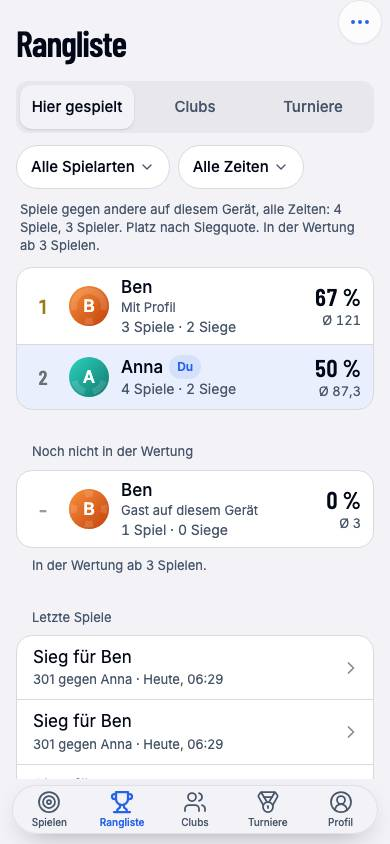
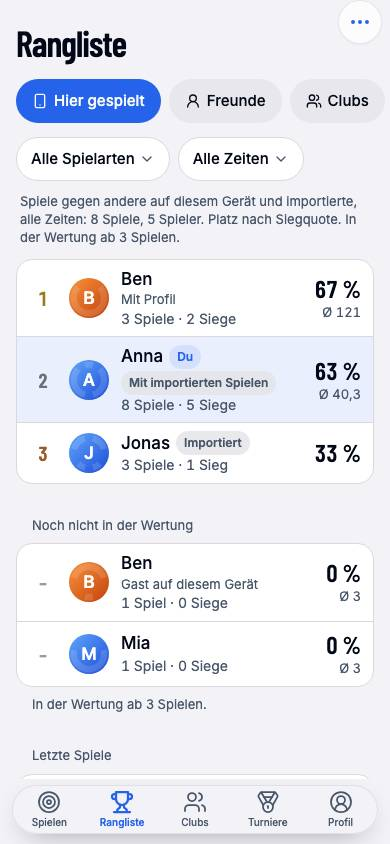
Freunde: Zahl auf dem Profil-Tab, Rangliste-Bereiche als Pills, Liste auf allen Geräten geprüft
Offene Anfragen stehen als rote Zahl auf dem Symbol des Profil-Tabs (Slot „tab.badges“,
CountBadge; die Worte sind die Beschreibung des Tabs, sein Name bleibt). Die vier Bereiche
der Rangliste sind eine seitlich scrollende Reihe von Pills mit Symbol (ScopeBar) statt eines
Segmented Control, in dem auf einem Telefon ein Wort brach; das Segmented Control ist wieder
wie auf main. Der Spielabend prüft die Zahl auf Bens Tab und die Liste auf Annas gekoppeltem
zweitem und ihrem wiederhergestelltem dritten Gerät.

diff --git a/docs/ux/freunde-vorschlag.html b/docs/ux/freunde-vorschlag.html
@@ -343,7 +343,7 @@ footer{margin-top:60px;padding-top:18px;border-top:1px solid var(--line);font-si
 
 <h2 id="orte">Die Orte in der App</h2>
 <h3>Profil › Freunde</h3>
-<p>Die Zeile „Freunde“ steht im Profil über dem Konto, mit der Zahl rechts und offenen Anfragen als Untertitel („1 Anfrage“). Dahinter die Liste: <b>Anfragen</b> (mit „Annehmen“ in der Zeile und dem Satz, den die Person mitschickte), <b>Freunde</b> („Freunde seit 26. Okt. 2026“), <b>Gesendet</b>. Jede Zeile öffnet die Spielerseite, wo entfernt, zurückgezogen oder abgelehnt wird. Der Plus-Knopf in der Leiste öffnet „Freund hinzufügen“.</p>
+<p>Die Zeile „Freunde“ steht im Profil über dem Konto, mit der Zahl rechts und offenen Anfragen als Untertitel („1 Anfrage“). Dahinter die Liste: <b>Anfragen</b> (mit „Annehmen“ in der Zeile und dem Satz, den die Person mitschickte), <b>Freunde</b> („Freunde seit 26. Okt. 2026“), <b>Gesendet</b>. Jede Zeile öffnet die Spielerseite, wo entfernt, zurückgezogen oder abgelehnt wird. Der Plus-Knopf in der Leiste öffnet „Freund hinzufügen“. Offene Anfragen stehen außerdem als rote Zahl auf dem Symbol des Profil-Tabs (HIG-Badge), damit sie von jedem Tab aus zu sehen sind, und verschwinden mit der Antwort. Die Liste ist ein Datensatz des Profils: ein gekoppeltes zweites Gerät und ein aus der Sicherung wiederhergestelltes zeigen dieselben Freunde und Anfragen, ohne dass dort etwas getan wird.</p>
 <div class="shots">
   <figure><img src="../implementation/evidence/P8/screens/41-friends-list.jpg" alt="Profil › Freunde mit Ben unter Freunde" loading="lazy"><figcaption>Profil › Freunde: Anfragen oben, dann Freunde, dann Gesendet.</figcaption></figure>
   <figure><img src="../implementation/evidence/P8/screens/40-friends-add.jpg" alt="Blatt Freund hinzufügen mit Zuletzt gespielt mit" loading="lazy"><figcaption>„Freund hinzufügen“: scannen, eigenen Code zeigen, oder einer aus „Zuletzt gespielt mit“.</figcaption></figure>
@@ -357,7 +357,7 @@ footer{margin-top:60px;padding-top:18px;border-top:1px solid var(--line);font-si
 <h3>Clubs und Turniere</h3>
 <p>„Person einladen“ (Club) bekommt die Gruppe <b>Freunde</b> über „Zuletzt gespielt mit“; ein Tipp schickt die Einladung an das Profil, wie bisher. Bei den Turniergästen stehen die Namen der Freunde zuerst unter den Vorschlägen. Mehr braucht es nicht: die Einladung selbst bleibt dieselbe.</p>
 <h3>Rangliste › Freunde</h3>
-<p>Die Rangliste bekommt einen vierten Bereich: <b>Hier gespielt · Freunde · Clubs · Turniere</b>. „Freunde“ zeigt dich und deine Freunde nach Siegquote (X01 gegen andere), mit Ø und Spielen, aus der Statistikkarte, die jeder unter „Sichtbarkeit“ freigibt. Ab der üblichen Mindestzahl von Spielen in der Wertung, darunter mit „Nicht in der Wertung“. Wer nichts freigibt, steht darunter mit „Zeigt keine Zahlen“; du selbst mit „Sichtbarkeit öffnen“. Der Satz darüber sagt genau das. Nichts, was nicht ohnehin auf der Spielerseite stünde, wird hier gezeigt.</p>
+<p>Die Rangliste bekommt einen vierten Bereich: <b>Hier gespielt · Freunde · Clubs · Turniere</b>. Vier Wörter passen auf einem Telefon in kein Segmented Control, ohne dass eines bricht; die Bereiche sind darum eine Reihe von Pills mit Symbol, der gewählte gefüllt, die bei Bedarf seitlich scrollt und bis an den Rand reicht (die Filter-Pills von App Store, Fitness und Karten). „Freunde“ zeigt dich und deine Freunde nach Siegquote (X01 gegen andere), mit Ø und Spielen, aus der Statistikkarte, die jeder unter „Sichtbarkeit“ freigibt. Ab der üblichen Mindestzahl von Spielen in der Wertung, darunter mit „Nicht in der Wertung“. Wer nichts freigibt, steht darunter mit „Zeigt keine Zahlen“; du selbst mit „Sichtbarkeit öffnen“. Der Satz darüber sagt genau das. Nichts, was nicht ohnehin auf der Spielerseite stünde, wird hier gezeigt.</p>
 <div class="shots">
   <figure><img src="../implementation/evidence/P8/screens/43-ranks-friends.jpg" alt="Rangliste › Freunde" loading="lazy"><figcaption>Rangliste › Freunde: geteilte Zahlen, nebeneinander.</figcaption></figure>
   <figure><img src="../implementation/evidence/P8/screens/44-setup-friend-chip.jpg" alt="Spielvorbereitung mit dem Chip Ben" loading="lazy"><figcaption>Spielen: Freunde als Chips über den Sitzen.</figcaption></figure>

diff --git a/components/app-shell.tsx b/components/app-shell.tsx
@@ -4,6 +4,7 @@ import type { ReactNode } from "react"
 import { CircleUserRound, Medal, Target, Trophy, Users } from "lucide-react"
 import { FitText } from "@/components/fit-text"
 import { useRegistryVersion } from "@/components/nav/use-registry"
+import { SlotItems } from "@/components/shell/slot-items"
 import { useT } from "@/components/i18n-provider"
 import type { Messages } from "@/lib/i18n"
 import type { TabId } from "@/lib/shell/nav"
@@ -22,12 +23,19 @@ const TABS: { id: Tab; label: (t: Messages) => string; icon: typeof Target }[] =
 ]
 
 // The tab's symbol. The profile area can show the player's own picture there (slot
-// "profile.tabIcon"), falling back to the standard symbol.
-function TabIcon({ id, icon: Icon, selected, className }: { id: Tab; icon: typeof Target; selected: boolean; className: string }) {
+// "profile.tabIcon"), falling back to the standard symbol. An area with something waiting for
+// the person under a tab puts its count on the symbol ("tab.badges"); its words are the tab
+// button's description (badgeId), so the tab keeps its name.
+function TabIcon({ id, icon: Icon, selected, className, badgeId }: { id: Tab; icon: typeof Target; selected: boolean; className: string; badgeId: string }) {
   useRegistryVersion()
   const symbol = <Icon className={className} strokeWidth={selected ? 2.25 : 1.75} aria-hidden="true" />
   const Slot = id === "profile" ? getSlot("profile.tabIcon") : undefined
-  return Slot ? <Slot fallback={symbol} /> : symbol
+  return (
+    <span className="relative inline-flex shrink-0">
+      {Slot ? <Slot fallback={symbol} /> : symbol}
+      <SlotItems list="tab.badges" props={() => ({ tab: id, id: badgeId })} />
+    </span>
+  )
 }
 
 // Top-level navigation, following the HIG: a tab bar at the bottom on phones and iPads in
@@ -51,12 +59,13 @@ export function AppShell({ tab, onTabChange, children }: { tab: Tab; onTabChange
                 type="button"
                 onClick={() => onTabChange(id)}
                 aria-current={tab === id ? "page" : undefined}
+                aria-describedby={`tab-badge-side-${id}`}
                 className={cn(
                   "flex min-h-11 w-full items-center gap-3 rounded-xl px-3 text-left text-[1.0625rem] transition-colors focus-visible:outline-none focus-visible:ring-2 focus-visible:ring-ring",
                   tab === id ? "bg-primary font-semibold text-primary-foreground" : "text-foreground hover:bg-secondary/60",
                 )}
               >
-                <TabIcon id={id} icon={icon} selected={tab === id} className="h-5 w-5 shrink-0" />
+                <TabIcon id={id} icon={icon} selected={tab === id} className="h-5 w-5 shrink-0" badgeId={`tab-badge-side-${id}`} />
                 {label(t)}
               </button>
             </li>
@@ -77,13 +86,14 @@ export function AppShell({ tab, onTabChange, children }: { tab: Tab; onTabChange
                 type="button"
                 onClick={() => onTabChange(id)}
                 aria-current={tab === id ? "page" : undefined}
+                aria-describedby={`tab-badge-bar-${id}`}
                 className={cn(
                   "flex h-full w-full flex-col items-center justify-center gap-0.5 rounded-[1.625rem] px-0.5 text-[0.625rem] transition-colors xshort:flex-row xshort:gap-1.5 xshort:rounded-none xshort:text-[0.8125rem]",
                   "focus-visible:outline-none focus-visible:ring-2 focus-visible:ring-inset focus-visible:ring-ring",
                   tab === id ? "font-semibold text-primary" : "font-medium text-muted-foreground",
                 )}
               >
-                <TabIcon id={id} icon={icon} selected={tab === id} className="h-6 w-6 shrink-0 xshort:h-5 xshort:w-5" />
+                <TabIcon id={id} icon={icon} selected={tab === id} className="h-6 w-6 shrink-0 xshort:h-5 xshort:w-5" badgeId={`tab-badge-bar-${id}`} />
                 {/* A fixed line height: a label shrunk to fit ("Leaderboard") stays on the same line as the others. */}
                 <span className="w-full min-w-0 xshort:w-auto">
                   <FitText minScale={0.75} className="text-center leading-[0.78rem] xshort:leading-tight">

diff --git a/components/ui/scope-bar.tsx b/components/ui/scope-bar.tsx
@@ -1,0 +1,80 @@
+"use client"
+
+import { useEffect, useRef, type ComponentType } from "react"
+import { cn } from "@/lib/utils"
+
+export interface ScopeOption<T extends string> {
+  value: T
+  label: string
+  icon?: ComponentType<{ className?: string; "aria-hidden"?: boolean | "true" }>
+}
+
+// A row of pills for the areas of a screen, one of them chosen (the filter pills of the App
+// Store, Fitness and Maps): every label stays one line and whole, and when the row is wider than
+// the screen it scrolls sideways, bleeding to the screen's edges like a list. For VoiceOver and
+// the keyboard it is a radio group: arrows move the choice. Where three short choices fit side
+// by side, a segmented control (./segmented.tsx) is the simpler control.
+export function ScopeBar<T extends string>({
+  label,
+  options,
+  value,
+  onChange,
+  className,
+}: {
+  // What is being chosen ("Bereich"), for VoiceOver.
+  label: string
+  options: readonly ScopeOption<T>[]
+  value: T
+  onChange: (value: T) => void
+  className?: string
+}) {
+  const ref = useRef<HTMLDivElement>(null)
+
+  // The chosen pill comes into view, also when the choice was made elsewhere.
+  useEffect(() => {
+    ref.current?.querySelector<HTMLElement>('[aria-checked="true"]')?.scrollIntoView({ block: "nearest", inline: "nearest" })
+  }, [value])
+
+  const move = (from: number, by: number) => {
+    const next = options[(from + by + options.length) % options.length]
+    onChange(next.value)
+    ref.current?.querySelectorAll<HTMLElement>('[role="radio"]')[options.indexOf(next)]?.focus()
+  }
+
+  return (
+    <div
+      ref={ref}
+      role="radiogroup"
+      aria-label={label}
+      className={cn("-mx-4 flex gap-2 overflow-x-auto px-4 py-0.5 [scrollbar-width:none] [&::-webkit-scrollbar]:hidden", className)}
+    >
+      {options.map((option, index) => {
+        const chosen = option.value === value
+        const Icon = option.icon
+        return (
+          <button
+            key={option.value}
+            type="button"
+            role="radio"
+            aria-checked={chosen}
+            tabIndex={chosen ? 0 : -1}
+            onClick={() => onChange(option.value)}
+            onKeyDown={(event) => {
+              if (event.key === "ArrowRight" || event.key === "ArrowDown") move(index, 1)
+              else if (event.key === "ArrowLeft" || event.key === "ArrowUp") move(index, -1)
+              else return
+              event.preventDefault()
+            }}
+            className={cn(
+              "flex min-h-11 shrink-0 items-center gap-1.5 whitespace-nowrap rounded-full px-4 text-[0.9375rem] font-medium transition-colors focus-visible:outline-none focus-visible:ring-2 focus-visible:ring-ring",
+              chosen ? "bg-primary text-primary-foreground" : "bg-secondary/70 text-foreground hover:bg-secondary",
+            )}
+          >
+            {Icon && <Icon className="h-4 w-4 shrink-0" aria-hidden="true" />}
+            {option.label}
+          </button>
+        )
+      })}
+    </div>
+  )
+}

diff --git a/components/leaderboard/home.tsx b/components/leaderboard/home.tsx
@@ -1,9 +1,9 @@
 "use client"
 
 import { useState } from "react"
-import { Medal, UserRound, Users } from "lucide-react"
+import { Medal, Smartphone, UserRound, Users } from "lucide-react"
 import { EmptyState } from "@/components/ui/empty-state"
-import { Segmented } from "@/components/ui/segmented"
+import { ScopeBar, type ScopeOption } from "@/components/ui/scope-bar"
 import { useNav } from "@/components/nav/nav-context"
 import { useRegistryVersion } from "@/components/nav/use-registry"
 import { SlotItems } from "@/components/shell/slot-items"
@@ -15,8 +15,10 @@ import { getSlotItems } from "@/lib/shell/registry"
 // The Rangliste tab: one tab, four areas (E-decision 2026-10-26, friends added E29): the games
 // on this device, the figures the player's friends share, the season tables of the player's
 // clubs, the player's tournament placings. Each area says what it counts. The three latter come
-// from their areas through the registry ("leaderboard.sections").
+// from their areas through the registry ("leaderboard.sections"). The areas are a row of pills
+// (ScopeBar): four words don't fit a segmented control on a phone without breaking one.
 type Section = "device" | "friends" | "clubs" | "tournaments"
+const ICONS: Record<Section, ScopeOption<Section>["icon"]> = { device: Smartphone, friends: UserRound, clubs: Users, tournaments: Medal }
 const SECTIONS: Section[] = (["device", "friends", "clubs", "tournaments"] as const).filter((s) => s !== "friends" || featureOn("friends"))
 
 export default function LeaderboardHome() {
@@ -28,9 +30,7 @@ export default function LeaderboardHome() {
   const provided = (id: Section) => getSlotItems("leaderboard.sections").some((item) => item.id === id)
   return (
     <>
-      <div className="mt-4">
-        <Segmented label={l.section} options={SECTIONS.map((s) => ({ value: s, label: l.sections[s] }))} value={section} onChange={setSection} />
-      </div>
+      <ScopeBar label={l.section} options={SECTIONS.map((s) => ({ value: s, label: l.sections[s], icon: ICONS[s] }))} value={section} onChange={setSection} className="mt-3" />
       {section === "device" && <DeviceSection />}
       {section === "friends" &&
         (provided("friends") ? (

diff --git a/lib/shell/registry.ts b/lib/shell/registry.ts
@@ -51,8 +51,14 @@
 //     "leaderboard.sections" The areas of the Rangliste tab beside the shell's own "Hier
 //                       gespielt": the clubs' season tables (piece id "clubs") and the player's
 //                       tournament placings (piece id "tournaments"). No props; the tab shows the
-//                       piece whose id matches the chosen segment, and its own empty state for a
-//                       segment without a piece (the area is switched off).
+//                       piece whose id matches the chosen area, and its own empty state for an
+//                       area without a piece (the area is switched off).
+//     "tab.badges"      On a tab bar symbol: the count of what waits for the person under that
+//                       tab (open friend requests on Profil), as a CountBadge
+//                       (components/ui/count-badge.tsx). Gets { tab, id }: the id the tab's
+//                       button names as its description, for the words that say what waits, so
+//                       the tab keeps its name. A piece renders nothing for the other tabs and
+//                       while nothing waits.
 //     "profile.card"    On a profile (own or someone else's), below its figures: badges, a club
 //                       hint. Gets { pubkey, own }. Keep it to one line.
 //     "profile.notices" On the own profile, below the sports card and before the form: one
@@ -356,6 +362,7 @@ export interface SlotListProps {
   "profile.actions": { pubkey: string; name: string }
   "profile.advanced": { pubkey: string }
   "club.tournaments": { club: string; name: string; leader: boolean; compact: boolean }
+  "tab.badges": { tab: TabId; id: string }
 }
 export type SlotListId = keyof SlotListProps
 export interface SlotItem<K extends SlotListId> {
@@ -377,6 +384,7 @@ const slotLists: { [K in SlotListId]: Map<string, ComponentType<SlotListProps[K]
   "profile.actions": new Map(),
   "profile.advanced": new Map(),
   "club.tournaments": new Map(),
+  "tab.badges": new Map(),
 }
 
 // Adds a piece to a slot list. The same id again replaces the piece in its place.

diff --git a/components/ui/segmented.tsx b/components/ui/segmented.tsx
@@ -21,9 +21,7 @@ export function Segmented<T extends string | number>({
   onChange: (value: T) => void
 }) {
   return (
-    // Up to three segments share the width equally; from four on, each takes what its words need
-    // (iOS apportions segment widths by content), so the longest word stays whole on a phone.
-    <div role="radiogroup" aria-label={label} className={cn("grid grid-flow-col gap-1 rounded-xl bg-secondary/70 p-1", options.length >= 4 ? "[grid-auto-columns:minmax(min-content,auto)]" : "auto-cols-fr")}>
+    <div role="radiogroup" aria-label={label} className="grid auto-cols-fr grid-flow-col gap-1 rounded-xl bg-secondary/70 p-1">
       {options.map((option) => (
         <button
           key={option.value}
@@ -33,9 +31,7 @@ export function Segmented<T extends string | number>({
           disabled={option.disabled}
           onClick={() => onChange(option.value)}
           className={cn(
-            "min-h-11 min-w-0 rounded-lg px-1.5 py-1 text-[0.9375rem] font-medium leading-tight tabular-nums transition-colors break-words focus-visible:outline-none focus-visible:ring-2 focus-visible:ring-ring disabled:opacity-40 [@media(max-width:359px)]:px-1 [@media(max-width:359px)]:text-[0.8125rem]",
-            // Four areas on a phone: smaller type and tighter padding.
-            options.length >= 4 && "[@media(max-width:439px)]:px-1 [@media(max-width:439px)]:text-[0.8125rem]",
+            "min-h-11 min-w-0 rounded-lg px-1.5 py-1 text-[0.9375rem] font-medium leading-tight tabular-nums transition-colors [overflow-wrap:anywhere] focus-visible:outline-none focus-visible:ring-2 focus-visible:ring-ring disabled:opacity-40 [@media(max-width:359px)]:px-1 [@media(max-width:359px)]:text-[0.8125rem]",
             value === option.value ? "bg-background text-foreground shadow" : "text-muted-foreground",
           )}
         >

diff --git a/components/friends/register.ts b/components/friends/register.ts
@@ -8,7 +8,7 @@ import { registerScreen, registerSlotItem } from "@/lib/shell/registry"
 
 // Where the friends area plugs into the shell (imported by components/shell/extensions.ts): the
 // row in the Profile tab and its screen, the button on another player's profile, the chips in
-// game setup, and the Rangliste's "Freunde". Everything loads on demand; behind the area's
+// game setup, the Rangliste's "Freunde" and the count of open requests on the Profile tab. Everything loads on demand; behind the area's
 // feature switch (lib/shell/features.ts).
 
 if (featureOn("friends")) {
@@ -17,4 +17,5 @@ if (featureOn("friends")) {
   registerSlotItem("profile.actions", "friends", lazyScreen<SlotListProps["profile.actions"]>(() => import("@/components/friends/friend-button")))
   registerSlotItem("setup.players", "friends.players", lazyScreen<SetupPlayersProps>(() => import("@/components/friends/friend-seats")))
   registerSlotItem("leaderboard.sections", "friends", lazyScreen<SlotListProps["leaderboard.sections"]>(() => import("@/components/friends/friends-section")))
+  registerSlotItem("tab.badges", "friends", lazyScreen<SlotListProps["tab.badges"]>(() => import("@/components/friends/tab-badge")))
 }

diff --git a/components/ui/count-badge.tsx b/components/ui/count-badge.tsx
@@ -1,0 +1,17 @@
+import { cn } from "@/lib/utils"
+
+// The red count on a tab bar symbol (HIG badges): what waits for the person there. `label` is
+// what VoiceOver reads for it ("1 Anfrage"; the number alone says too little), under `id`, which
+// the control names as its description (aria-describedby reaches a hidden element): the control
+// keeps its own name, and the words come after it.
+export function CountBadge({ count, label, id, className }: { count: number; label: string; id: string; className?: string }) {
+  if (count <= 0) return null
+  return (
+    <span aria-hidden="true" className={cn("absolute -right-2 -top-1.5 flex h-[1.125rem] min-w-[1.125rem] items-center justify-center rounded-full bg-[#ff3b30] px-1 text-[0.6875rem] font-semibold leading-none text-white ring-2 ring-background", className)}>
+      {count > 99 ? "99+" : count}
+      <span id={id} className="sr-only">
+        {label}
+      </span>
+    </span>
+  )
+}

diff --git a/components/friends/tab-badge.tsx b/components/friends/tab-badge.tsx
@@ -1,0 +1,18 @@
+"use client"
+
+import { CountBadge } from "@/components/ui/count-badge"
+import { useAreaT } from "@/components/i18n-provider"
+import { FRIENDS_TEXTS } from "@/lib/i18n/features/friends.screens"
+import { useFriends } from "@/components/friends/use-friends"
+import { byState } from "@/lib/friends/model"
+import type { TabId } from "@/lib/shell/nav"
+
+// The requests waiting for an answer, on the Profile tab's symbol: the person sees them from any
+// tab, as a tab bar badge is meant to be seen.
+export default function FriendsTabBadge({ tab, id }: { tab: TabId; id: string }) {
+  const tx = useAreaT(FRIENDS_TEXTS)
+  const { friends } = useFriends()
+  if (tab !== "profile" || !friends) return null
+  const requests = byState(friends, "received").length
+  return <CountBadge count={requests} label={tx.row.requests(requests)} id={id} />
+}

diff --git a/docs/implementation/STATUS.md b/docs/implementation/STATUS.md
@@ -19,7 +19,7 @@ Diese Datei zuerst lesen, wenn die Arbeit fortgesetzt wird. Danach die Karte der
 | nostr-core | 1.0.6, fest eingetragen. Alle Nostr- und NWC-Zugriffe laufen über `lib/nostr`. |
 | UX-Umbau Clubs, Turniere, Einladen | Zweig `ux/clubs-turniere-einladen` (ab `be6bbf6`, 26. Oktober 2026), Vorschlag mit Ist-Vergleich in [docs/ux/clubs-turniere-einladen-vorschlag.html](../ux/clubs-turniere-einladen-vorschlag.html). **Stufe 1 gebaut** (reine Oberfläche, M1 bis M9): ein Scanner für jeden BlueLine-Code (Kopplung ausgenommen, 0002 §7), „Code scannen“ und „Hinzufügen“ in der Leiste der Tabs Clubs und Turniere, Einladeblatt mit fertigem Code (stehender Link, ein Jahr, „Link zurücksetzen“, Optionen eingeklappt), Clubkopf mit Gesichtern, Chips, drei Schnellaktionen und Menü „Mehr“, Turnierseite mit „Teilen“ und „Leiten“ in der Leiste, Turnierleitung mit Phasenschritten, „Spieler einladen“ und Board-Code je Zeile, Blätter öffnen sich nach Gründung und Veröffentlichung von selbst, Karten mit Chips und „Beitreten“. Neue Bausteine: `components/ui/{chip,avatar-stack,action-row,phase-steps,menu}.tsx`, `components/nav/nav-bar-items.tsx` (Tasten gepushter Ansichten in der Navigationsleiste), `components/shell/scan-screen.tsx`. Nachweis: `lint`, `typecheck`, `npm test` 678 von 678, `build`, Spielabend P8.01 **70 von 70** (Skript an die neuen Wege angepasst; Club gründen und Link teilen jetzt 4 statt 6 Tipps). **Stufe 2 gebaut** (M10 bis M14, Protokoll und Oberfläche): Kurzcode `ABCD-EFGH` unter jedem Gruppen-QR (scrypt-Nachschlagewert als Tag `c`, Token darin verschlüsselt, Eingabe unter „Code scannen“), Einladung direkt an ein Profil (`club.invitation` nur als Gift Wrap, Blatt „Person einladen“ mit Profilcode und „Zuletzt gespielt mit“, Eingang erscheint von selbst unter Clubs), geteiltes Linkgeheimnis der Leitung (`club.invite.token`, versiegelt je Leser, nie in `club.keys`), Beitrittsregeln `approval` und `membersInvite` (Schalter unter „Name und Beschreibung“, Standard: Mitglieder dürfen einladen, ihr Link fragt nur an, „Eingeladen von …“ in der Anfrage), Vorschläge aus den eigenen Spielen auch für Turniergäste. **Stufe 3 gebaut** (M15, M16): Live-Leiste „Gerade an den Boards“ auf der Turnierseite mit Legs als große Ziffern und Zähler auf den Karten, Glas-Tasten in der Leiste und schwebende Tableiste auf Telefonen (im Querformat bündig). Nachweis: `typecheck`, `lint`, `npm test` 678 von 678 (neue Vektoren `members-invite`, `members-invite-ends`, `approval`, `shared-link-secret`, Kurzcode-Ableitungen), Relay-Tests `tests/relay/clubs.test.ts` 10 von 10 (zwei neue: Mitgliederlink mit Code bis zur Aufnahme, Einladung an ein Profil), `build`, Spielabend P8.01 **84 von 84** mit zwei neuen Schritten (Code eines Mitglieds, Einladung an ein Profil), HIG-Matrix 154 von 154, unabhängige Review (8 Punkte, alle behoben, darunter: Linkgeheimnis der Leitung erreichte Mitglieder über die Zugriffsfreigabe). Offen: Prüfung auf echten Geräten mit Kamera, öffentliche Relays (E7). |
 | UX-Umbau Profil und Rangliste | Zweig `ux/profil-rangliste` (ab `8155f8a`, 26. Oktober 2026), Vorschlag mit Ist-Vergleich und Entscheidungen E19 bis E28 in [docs/ux/profil-rangliste-vorschlag.html](../ux/profil-rangliste-vorschlag.html), Recherchen daneben. **Gebaut:** Statistik-Engine mit Geltungsbereichen (`lib/storage/stats.ts`: gegen andere, Training, alle; Form über die letzten N Spiele; Tabellen nach Siegquote mit Mindestspielen und geteilten Rängen; Zusammenfassungen je Archivstand gecacht), Training als eigener Bereich (`lib/profile/training.ts`, Karte und Bildschirm mit Monatsvergleich, Wochen- und Monatsverlauf, Serie, Bestleistungen), Profil-Tab neu (Sportkarte Ø 3 Darts · Checkout · Siege mit Geltung, Form, Training, letzte Spiele, Statistik mit Zeitraum und Davor, Konto-Gruppe mit Geräten, Sicherung, Zahlungen, Spielverlauf-Export als CSV/JSON nach [docs/data/spielverlauf.md](../data/spielverlauf.md), Sichtbarkeit mit zwei Stufen und Vorschau), Spielerseite mit „X gegen dich“, Rangliste als ein Tab mit drei Bereichen (Hier gespielt mit Spielart, Zeitraum, Sortierung im Menü, „Du: Platz n“; Clubs mit Saisontabellen; Turniere mit Platzierungen), Statistikkarte um optionale `checkouts`/`dartsAtDouble` erweitert (rückwärtskompatibel, Vektoren neu erzeugt). Nachweis: `lint`, `typecheck`, `npm test` 688 von 688, `build`, Spielabend P8.01 20 von 20 Schritten, 89 von 89 Prüfungen (neuer Schritt „Rangliste heute Abend“), HIG-Matrix 204 von 204 mit den neuen Bildschirmen, unabhängige Reviews (Korrektheit 6 Befunde, HIG 25 Befunde; behoben bis auf die im Vorschlag genannten). **Stufe 3 (Zweig `ux/profil-rangliste-stufe3`, 26. Oktober 2026):** Import des Spielverlaufs (`lib/profile/import.ts`: eigene CSV in beiden Sprachen, Spiele-JSON, Gerätedatei, Tabellen mit denselben Spalten; Vorschau, „Welcher Name bist du?“, Quelle `imported-file`, Kennung aus den Angaben gegen Doppelte), Zahlen als Bild (`lib/profile/figures-image.ts`, „Teilen“ auf Statistik und Training, „Mein Dartjahr“ beim Zeitraum Jahr), Trainingsziel (`lib/profile/goal.ts`, nur lokal, Linie im Verlauf), Sicherungshinweis als eigene Karte unter der Sportkarte (Slot `profile.notices`), Titel im Querformat in der Leiste, die Rangliste beginnt ohne Scrollen mit ihrer Wertung. Zweite Review-Runde (UX gegen Marktführer, echter Durchlauf): Import mit Ziel-Knopf und Rückgängig, Bild-Vorschau vor dem Teilen, Ziel-Stepper, fixierte Blatt-Knöpfe, Kennzeichnung importierter Spiele in Liste und Spiel. Nachweis: `npm test` 705/705, Spielabend 94/94 (neuer Schritt Import), HIG-Matrix 254/254. Kein n01-Adapter (Format nicht dokumentiert). Offen: echte Geräte mit VoiceOver, öffentliche Relays. |
-| Freunde | Zweig `feat/freunde` (26. Oktober 2026), Vorschlag mit Entscheidungen E29 bis E33 in [docs/ux/freunde-vorschlag.html](../ux/freunde-vorschlag.html), Protokoll in [docs/protocol/families/friends.md](../protocol/families/friends.md). **Gebaut:** gegenseitige Freunde wie in Game Center als privater Datensatz `friends` des Profils (Kind 30078, neueste Fassung gewinnt; gemeinsamer Baustein `lib/sync/small-record.ts`, den jetzt auch die Geräteliste nutzt), drei Nachrichten `friend.request`, `friend.accept`, `friend.remove` nur als Gift Wrap an das Profil, ein Posteingang je Profil (`lib/profile/inbox.ts`, läuft ab dem ersten gespeicherten Profil mit Schlüssel; Clubeinladungen kommen darüber an, nicht mehr nur bei offenem Clubs-Tab), Zeile „Freunde“ im Profil mit Bildschirm (Anfragen · Freunde · Gesendet), Blatt „Freund hinzufügen“ (Code scannen, eigenen Code zeigen, Zuletzt gespielt mit), Knopf mit Zustand auf jeder Spielerseite, Chips „Freunde“ in der Spielvorbereitung (Sitz mit Profil verbunden), Gruppe „Freunde“ in „Person einladen“ und bei Turniergästen, Rangliste mit viertem Bereich „Freunde“ aus den geteilten Statistikkarten, „Spielerprofil“ von der Vergleichsseite der Rangliste. Nachweis: `lint`, `typecheck`, `npm test` 714 von 714, `build`, Spielabend P8.01 108 von 108 Prüfungen in 22 Schritten (neuer Schritt 21 „Anna und Ben werden Freunde“), HIG-Matrix 284 von 284 (neu: Rangliste › Freunde, Profil › Freunde, Blatt „Freund hinzufügen“ je Größe und Sprache), zwei unabhängige Reviews in drei Runden (Korrektheit 13 Befunde und 5 Nachbefunde, HIG/UX 18 Befunde; alle behoben bis auf zwei bewusst gelassene: Signer-App-Hinweis bleibt stehen, Zurückziehen fragt einmal nach). Dazu: die Chips „Zuletzt gespielt“ der Spielvorbereitung tragen jetzt das Profil, die Rangliste-Segmente teilen sich die Breite nach Inhalt, die Beziehung steht auf fremden Spielerseiten zuerst. Mit Signer-App gehen eigene Änderungen, Eingehendes kommt nicht von allein (Satz im Bildschirm). Offen: echte Geräte, öffentliche Relays, Stufe „Nur Freunden“ in der Sichtbarkeit (E32). |
+| Freunde | Zweig `feat/freunde` (26. Oktober 2026), Vorschlag mit Entscheidungen E29 bis E33 in [docs/ux/freunde-vorschlag.html](../ux/freunde-vorschlag.html), Protokoll in [docs/protocol/families/friends.md](../protocol/families/friends.md). **Gebaut:** gegenseitige Freunde wie in Game Center als privater Datensatz `friends` des Profils (Kind 30078, neueste Fassung gewinnt; gemeinsamer Baustein `lib/sync/small-record.ts`, den jetzt auch die Geräteliste nutzt), drei Nachrichten `friend.request`, `friend.accept`, `friend.remove` nur als Gift Wrap an das Profil, ein Posteingang je Profil (`lib/profile/inbox.ts`, läuft ab dem ersten gespeicherten Profil mit Schlüssel; Clubeinladungen kommen darüber an, nicht mehr nur bei offenem Clubs-Tab), Zeile „Freunde“ im Profil mit Bildschirm (Anfragen · Freunde · Gesendet), Blatt „Freund hinzufügen“ (Code scannen, eigenen Code zeigen, Zuletzt gespielt mit), Knopf mit Zustand auf jeder Spielerseite, Chips „Freunde“ in der Spielvorbereitung (Sitz mit Profil verbunden), Gruppe „Freunde“ in „Person einladen“ und bei Turniergästen, Rangliste mit viertem Bereich „Freunde“ aus den geteilten Statistikkarten, „Spielerprofil“ von der Vergleichsseite der Rangliste. Nachweis: `lint`, `typecheck`, `npm test` 714 von 714, `build`, Spielabend P8.01 114 von 114 Prüfungen in 22 Schritten (neuer Schritt 21 „Anna und Ben werden Freunde“), HIG-Matrix 284 von 284 (neu: Rangliste › Freunde, Profil › Freunde, Blatt „Freund hinzufügen“ je Größe und Sprache), zwei unabhängige Reviews in drei Runden (Korrektheit 13 Befunde und 5 Nachbefunde, HIG/UX 18 Befunde; alle behoben bis auf zwei bewusst gelassene: Signer-App-Hinweis bleibt stehen, Zurückziehen fragt einmal nach). Dazu: die Chips „Zuletzt gespielt“ der Spielvorbereitung tragen jetzt das Profil, die vier Bereiche der Rangliste sind eine Reihe von Pills mit Symbol statt eines Segmented Control, offene Anfragen stehen als Zahl auf dem Profil-Tab, die Beziehung steht auf fremden Spielerseiten zuerst; Schritt 21 prüft die Liste auch auf Annas gekoppeltem zweitem und ihrem wiederhergestellten dritten Gerät. Mit Signer-App gehen eigene Änderungen, Eingehendes kommt nicht von allein (Satz im Bildschirm). Offen: echte Geräte, öffentliche Relays, Stufe „Nur Freunden“ in der Sichtbarkeit (E32). |
 | Nächster Schritt | Menschliches Review nach [REVIEW.md](REVIEW.md); danach Gerätematrix, öffentliche Relays und Nutzertests nach den Entscheidungen unten. |
 
 ## Zustände in dieser Datei

diff --git a/docs/implementation/evidence/P8/README.md b/docs/implementation/evidence/P8/README.md
@@ -14,7 +14,7 @@ Ein zusammenhängender Playwright-Lauf (Chromium) spielt einen ganzen Abend mit 
 | carl-phone | 390×844, DE, hell | kommt über den gesagten Code eines Mitglieds in den Club |
 | board-tablet | 1024×768, DE, hell | Board 1 des Turniers |
 
-Die Schritte: ein 301 als Gast (ohne Profil und ohne Verbindung) → „Deine Ergebnisse mitnehmen“ → zweites Gerät koppeln → Sicherungsdatei → Wiederherstellung auf einem dritten Gerät → Club gründen und per Link einladen → Beitritt als Gast → Clubspiel aus dem Club, live mit Zuschauerin → Ben bestätigt auf seinem Telefon → Turnier mit 4 Plätzen (Anna, Ben, Carla, Gast Mia), K.-o., Board-Gerät: Check-in, Auslosung, Aufruf, Meldung vom Board, Freigabe, Finale, Ende mit Auszeichnungen → Auszeichnung von der Turnierseite auf Bens Profilkarte → Rangliste auf Annas Telefon: „Hier gespielt“ mit Zeitraum „Heute“ (Anna und Ben in der Wertung, Siegquote mit Spielen), Bereich Clubs mit der Saisontabelle, Bereich Turniere mit Annas Platz → Anna importiert eine Tabelle mit sechs früheren Spielen (`fixtures/spielverlauf.csv`, darunter drei Trainings in diesem Monat): Vorschau mit Spielen, Zeitraum und Namen, ihr Name vorgewählt, danach zählen die Spiele für sie und „Jonas“ steht als importiert in der Rangliste → Einsatz 500 sats: Bens Telefon zeigt den Zahlungscode, Anna zahlt mit Doppeltipp, die Wallet zahlt genau einmal → Ben (Mitglied) zeigt seinen Einladelink mit Code, Carl tippt den Code unter „Code scannen“, fragt an, Anna sieht „Eingeladen von Ben“ und nimmt ihn auf → Anna schickt Carla eine Einladung direkt an ihr Profil (Profilcode, Name bestätigen, senden), die bei Carla unter Clubs erscheint; Carla fragt an, Anna bestätigt, Carlas Telefon sagt „Du bist dabei“ ohne Neuladen → Anna und Ben werden Freunde: Anfrage aus „Zuletzt gespielt mit“, „1 Anfrage“ auf Bens Profil-Tab, Annehmen in der Zeile, Annas Liste folgt von selbst, „Befreundet“ auf der Spielerseite, Rangliste › Freunde, Ben als ein Chip mit Profil in der Spielvorbereitung. Geprüft wird jeweils, was die Spieler sehen; pro Schritt entsteht ein Screenshot in Gerätegröße.
+Die Schritte: ein 301 als Gast (ohne Profil und ohne Verbindung) → „Deine Ergebnisse mitnehmen“ → zweites Gerät koppeln → Sicherungsdatei → Wiederherstellung auf einem dritten Gerät → Club gründen und per Link einladen → Beitritt als Gast → Clubspiel aus dem Club, live mit Zuschauerin → Ben bestätigt auf seinem Telefon → Turnier mit 4 Plätzen (Anna, Ben, Carla, Gast Mia), K.-o., Board-Gerät: Check-in, Auslosung, Aufruf, Meldung vom Board, Freigabe, Finale, Ende mit Auszeichnungen → Auszeichnung von der Turnierseite auf Bens Profilkarte → Rangliste auf Annas Telefon: „Hier gespielt“ mit Zeitraum „Heute“ (Anna und Ben in der Wertung, Siegquote mit Spielen), Bereich Clubs mit der Saisontabelle, Bereich Turniere mit Annas Platz → Anna importiert eine Tabelle mit sechs früheren Spielen (`fixtures/spielverlauf.csv`, darunter drei Trainings in diesem Monat): Vorschau mit Spielen, Zeitraum und Namen, ihr Name vorgewählt, danach zählen die Spiele für sie und „Jonas“ steht als importiert in der Rangliste → Einsatz 500 sats: Bens Telefon zeigt den Zahlungscode, Anna zahlt mit Doppeltipp, die Wallet zahlt genau einmal → Ben (Mitglied) zeigt seinen Einladelink mit Code, Carl tippt den Code unter „Code scannen“, fragt an, Anna sieht „Eingeladen von Ben“ und nimmt ihn auf → Anna schickt Carla eine Einladung direkt an ihr Profil (Profilcode, Name bestätigen, senden), die bei Carla unter Clubs erscheint; Carla fragt an, Anna bestätigt, Carlas Telefon sagt „Du bist dabei“ ohne Neuladen → Anna und Ben werden Freunde: Anfrage aus „Zuletzt gespielt mit“, „1 Anfrage“ auf Bens Profil-Tab, Annehmen in der Zeile, Annas Liste folgt von selbst, „Befreundet“ auf der Spielerseite, Rangliste › Freunde, Ben als ein Chip mit Profil in der Spielvorbereitung; die Anfrage steht als Zahl auf Bens Profil-Tab, bis er antwortet, und Annas zweites Gerät wie ihr aus der Sicherung wiederhergestelltes zeigen Ben von selbst unter Freunde. Geprüft wird jeweils, was die Spieler sehen; pro Schritt entsteht ein Screenshot in Gerätegröße.
 
 `expect` prüft den Ablauf (ein Fehler hält den Abend an). `expect.note` hält Befunde an der App fest, ohne den Abend anzuhalten (NOTE).
 
@@ -63,7 +63,7 @@ HIG-Matrix: 204 von 204 Prüfungen halten. Layoutprüfung: 222 Screenshots, 2 mi
 
 ### Ergebnis vom 2026-10-26 (Zweig `feat/freunde`, Freunde, nach drei Review-Runden, Skript wie in diesem Stand)
 
-Ganzer Abend bestanden, 108 von 108 Prüfungen in 22 Schritten (Laborwerte). Neu: Schritt 21 „Anna und Ben werden Freunde“ (14/14): Profil › Freunde beginnt leer mit „Freund hinzufügen“ und ohne Abgleich-Hinweis, das Blatt nennt Ben unter „Zuletzt gespielt mit“, ein Tipp sendet („Anfrage an Ben gesendet.“), Annas Liste zeigt Ben unter Gesendet; Bens Profil-Tab sagt „1 Anfrage“, ohne dass etwas geöffnet war, seine Liste zeigt Anna unter Anfragen mit „Annehmen“ in der Zeile, danach „Freunde seit“; Annas Liste folgt von selbst; Bens Spielerseite sagt „Befreundet“; Rangliste › Freunde nennt Ben mit dem Satz, was sie zeigt; die Spielvorbereitung bietet Ben einmal, als Chip mit Profil, der Sitz ist verbunden. HIG-Matrix: 284 von 284 Prüfungen halten, darunter je Größe und Sprache Rangliste › Freunde (vier Segmente, jedes Wort ganz), Profil › Freunde und das Blatt „Freund hinzufügen“. Zwei Bemerkungen der Layout-Prüfung (kleine Schrift im Spiel mit sechs Spielern auf 320 px) sind der bekannte Stand, nicht Teil dieses Zweigs.
+Ganzer Abend bestanden, 114 von 114 Prüfungen in 22 Schritten (Laborwerte). Neu: Schritt 21 „Anna und Ben werden Freunde“ (20/20): Profil › Freunde beginnt leer mit „Freund hinzufügen“ und ohne Abgleich-Hinweis, das Blatt nennt Ben unter „Zuletzt gespielt mit“, ein Tipp sendet („Anfrage an Ben gesendet.“), Annas Liste zeigt Ben unter Gesendet; Bens Profil-Tab sagt „1 Anfrage“, ohne dass etwas geöffnet war, die Zahl „1 Anfrage“ steht auf dem Symbol seines Profil-Tabs, während er auf Spielen ist, seine Liste zeigt Anna unter Anfragen mit „Annehmen“ in der Zeile, danach „Freunde seit“ und die Zahl auf dem Tab ist weg; Annas Liste folgt von selbst, ebenso Profil › Freunde auf ihrem gekoppelten zweiten Gerät und auf dem aus der Sicherung wiederhergestellten (Englisch), ohne Hinweis auf fehlenden Abgleich; Bens Spielerseite sagt „Befreundet“; Rangliste › Freunde nennt Ben mit dem Satz, was sie zeigt; die Spielvorbereitung bietet Ben einmal, als Chip mit Profil, der Sitz ist verbunden. HIG-Matrix: 284 von 284 Prüfungen halten, darunter je Größe und Sprache Rangliste › Freunde (die vier Bereiche als Reihe von Pills, jedes Wort ganz), Profil › Freunde und das Blatt „Freund hinzufügen“. Zwei Bemerkungen der Layout-Prüfung (kleine Schrift im Spiel mit sechs Spielern auf 320 px) sind der bekannte Stand, nicht Teil dieses Zweigs.
 
 ### Ergebnis vom 2026-10-26 (Zweig `ux/profil-rangliste-stufe3`, Stufe 3 des Profil-Umbaus nach zwei Review-Runden, Skript wie in diesem Stand)
 
